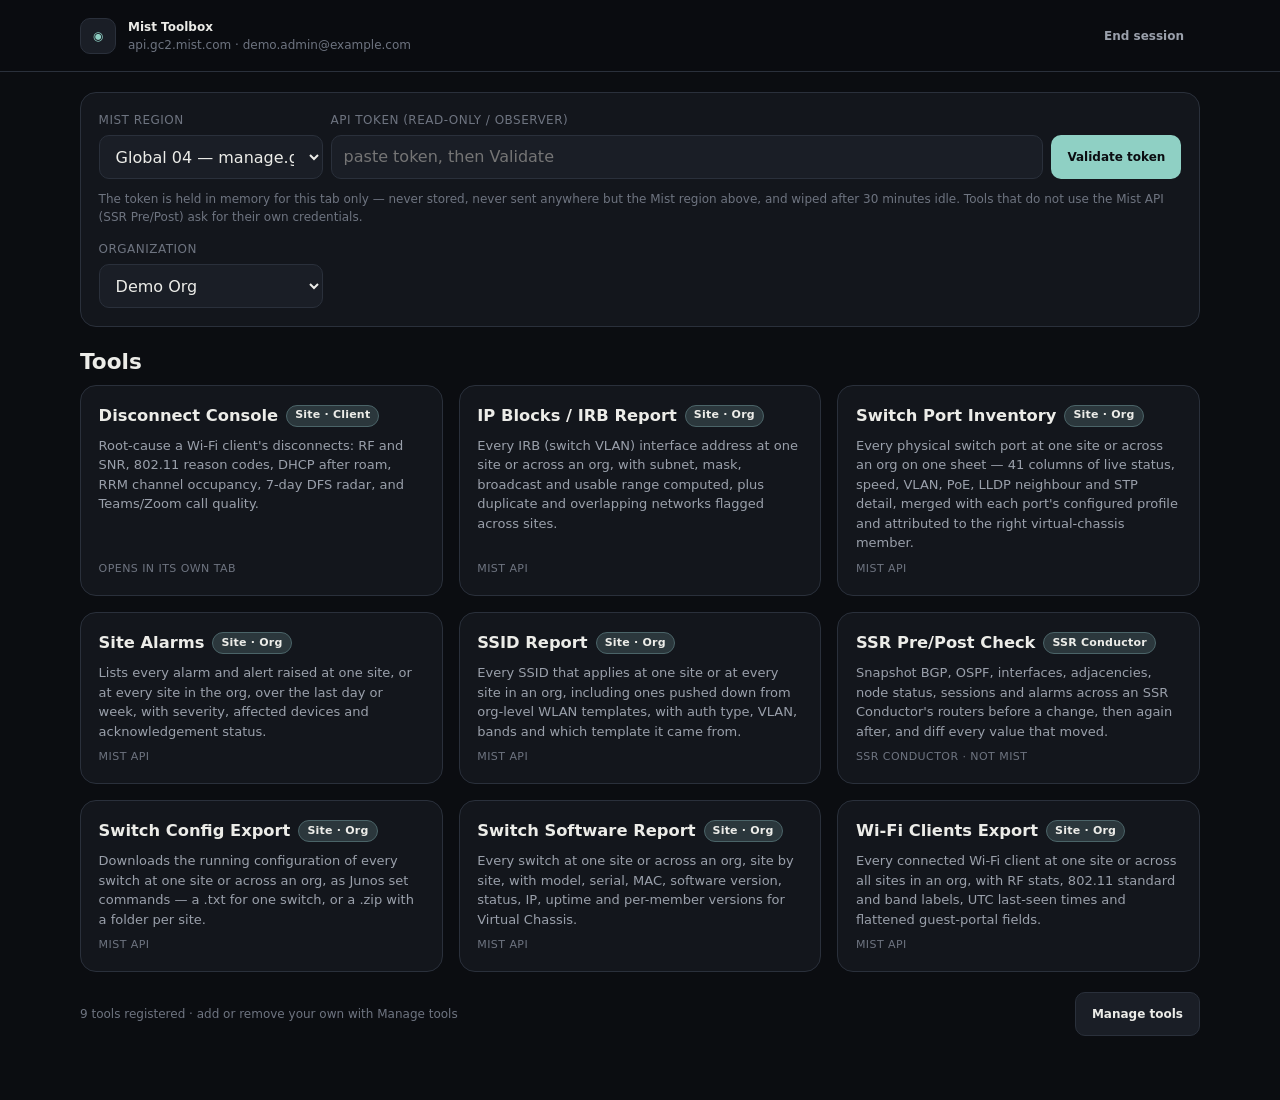
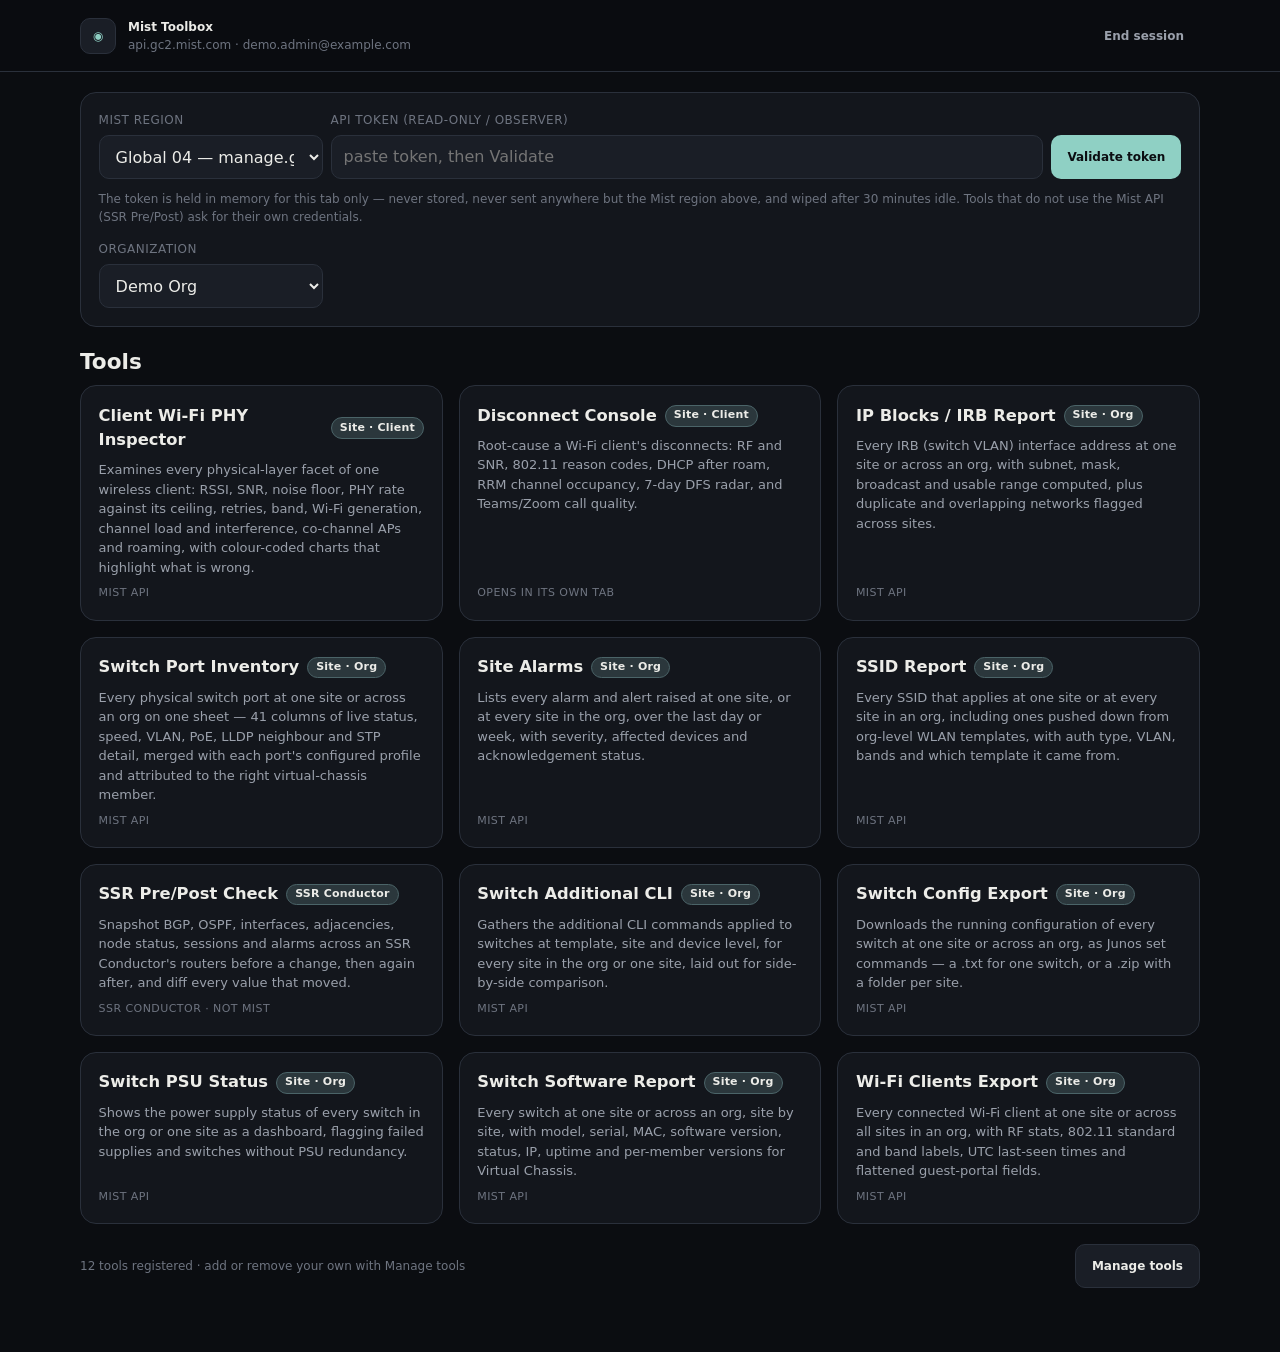
Add screenshots of the three new tools
Synthetic fixtures for Client Wi-Fi PHY Inspector (AP radio stats, one
client's stats, events, sessions and insight series), Switch PSU Status (PSUs
per VC member) and Switch Additional CLI (switch templates, site settings,
device commands), and three new stops in the capture tour: 07b, 09b and 09c.
The menu and extensions screenshots are refreshed to show the 12 tools and
v1.1.0. The other screenshots are unchanged.

diff --git a/README.md b/README.md
@@ -118,6 +118,8 @@ which drives the real extension in headless Chromium.
 | ![Switch Port Inventory](mist-toolbox/docs/screenshots/09-port-inventory.png)<br>**Switch Port Inventory** | ![Switch Config Export](mist-toolbox/docs/screenshots/05-switch-config-export.png)<br>**Switch Config Export** |
 | ![IP Blocks / IRB Report](mist-toolbox/docs/screenshots/08-ip-blocks.png)<br>**IP Blocks / IRB Report** | ![Site Alarms](mist-toolbox/docs/screenshots/06-site-alarms.png)<br>**Site Alarms** |
 | ![Wi-Fi Clients Export](mist-toolbox/docs/screenshots/07-wifi-clients.png)<br>**Wi-Fi Clients Export** | ![Disconnect Console](mist-toolbox/docs/screenshots/13-disconnect-console.png)<br>**Disconnect Console** |
+| ![Switch PSU Status](mist-toolbox/docs/screenshots/09b-switch-psu-status.png)<br>**Switch PSU Status** | ![Switch Additional CLI](mist-toolbox/docs/screenshots/09c-switch-additional-cli.png)<br>**Switch Additional CLI** |
+| ![Client Wi-Fi PHY Inspector](mist-toolbox/docs/screenshots/07b-client-wifi-phy.png)<br>**Client Wi-Fi PHY Inspector** | |
 | ![SSR post-check, changes highlighted](mist-toolbox/docs/screenshots/11-ssr-post-highlighted.png)<br>**SSR Pre/Post**: changed fields highlighted | ![SSR pre and post side by side](mist-toolbox/docs/screenshots/12-ssr-side-by-side.png)<br>**SSR Pre/Post**: side by side |
 
 Every screenshot with a caption: [`mist-toolbox/docs/screenshots/`](mist-toolbox/docs/screenshots/README.md).

diff --git a/mist-toolbox/docs/screenshots/README.md b/mist-toolbox/docs/screenshots/README.md
@@ -34,6 +34,10 @@ Generated by `scripts/screenshots/capture.mjs` against synthetic data (`fixtures
 
 ![Wi-Fi Clients Export](07-wifi-clients.png)
 
+### Client Wi-Fi PHY Inspector — one client's radio link graded, site found automatically
+
+![Client Wi-Fi PHY Inspector — one client's radio link graded, site found automatically](07b-client-wifi-phy.png)
+
 ### IP Blocks / IRB Report — duplicate subnet flagged across sites
 
 ![IP Blocks / IRB Report — duplicate subnet flagged across sites](08-ip-blocks.png)
@@ -41,6 +45,14 @@ Generated by `scripts/screenshots/capture.mjs` against synthetic data (`fixtures
 ### Switch Port Inventory
 
 ![Switch Port Inventory](09-port-inventory.png)
+
+### Switch PSU Status — a failed supply and a switch without redundancy flagged
+
+![Switch PSU Status — a failed supply and a switch without redundancy flagged](09b-switch-psu-status.png)
+
+### Switch Additional CLI — template, rule, site and device commands side by side
+
+![Switch Additional CLI — template, rule, site and device commands side by side](09c-switch-additional-cli.png)
 
 ### SSR Pre/Post Check — pre-check output, laid out like the CLI
 
